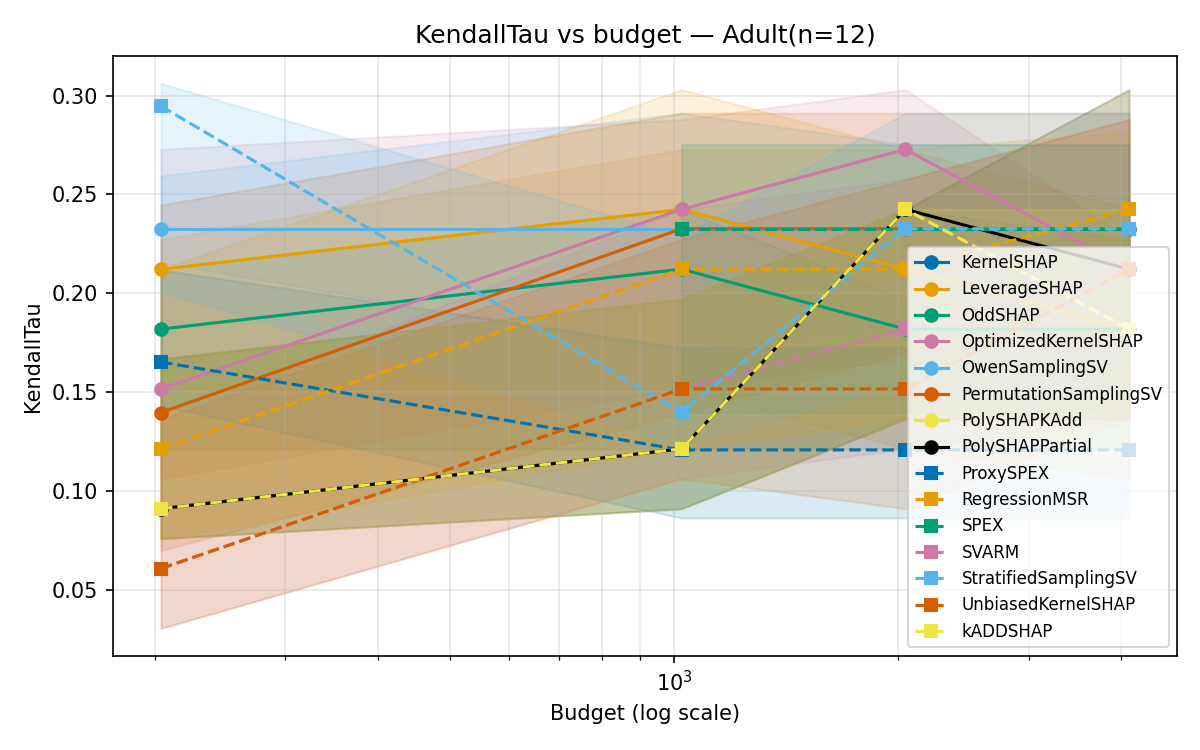
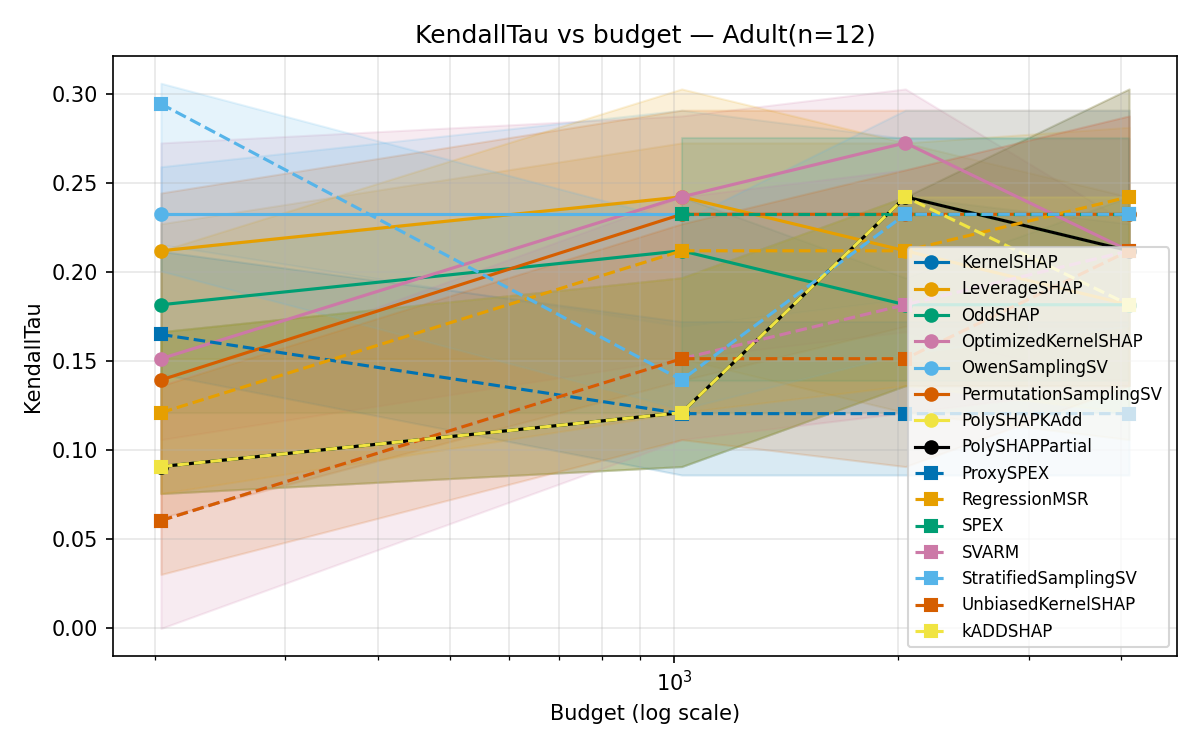
fix(benchmark): stop clipping the metrics that are not on a log axis
Summarising each budget's seeds by median and quartiles clipped the values away
from zero. That guard exists so a log axis can draw them, and only the error
metrics use one: Precision and KendallTau are drawn on a linear axis.

KendallTau ranges over [-1, 1] and is negative wherever a method ranks the
features against the ground truth. Clipping redrew every one of those as no
correlation at all -- the band bottomed out at 1e-14 instead of its real value.
Nine of the eleven games have a negative lower quartile somewhere, so this was
not an edge case.

Clip only the metrics that are drawn logarithmically, and regenerate the figures
of both sweeps.

diff --git a/benchmark/performance.py b/benchmark/performance.py
@@ -658,13 +658,20 @@ def _aggregate_by_method(
         budgets = sorted(budget_to_values)
         mid_vals, lower_vals, upper_vals = [], [], []
 
+        # Only the error metrics are drawn on a log axis, which cannot render zero, so only
+        # they are clipped away from it. Precision and KendallTau are drawn on a linear axis
+        # and must keep their true values: KendallTau is negative wherever a method ranks the
+        # features against the ground truth, and clipping would silently redraw that as no
+        # correlation at all.
+        clip_to_positive = metric in _LOWER_IS_BETTER
+
         for b in budgets:
             vs = budget_to_values[b]
             if use_medians:
-                vs_clipped = np.clip(vs, 1e-14, None)
-                mid_vals.append(float(np.median(vs_clipped)))
-                lower_vals.append(float(np.percentile(vs_clipped, 25)))
-                upper_vals.append(float(np.percentile(vs_clipped, 75)))
+                vs_arr = np.clip(vs, 1e-14, None) if clip_to_positive else np.asarray(vs, float)
+                mid_vals.append(float(np.median(vs_arr)))
+                lower_vals.append(float(np.percentile(vs_arr, 25)))
+                upper_vals.append(float(np.percentile(vs_arr, 75)))
             else:
                 mean = float(np.mean(vs))
                 std = float(statistics.pstdev(vs)) if len(vs) > 1 else 0.0
